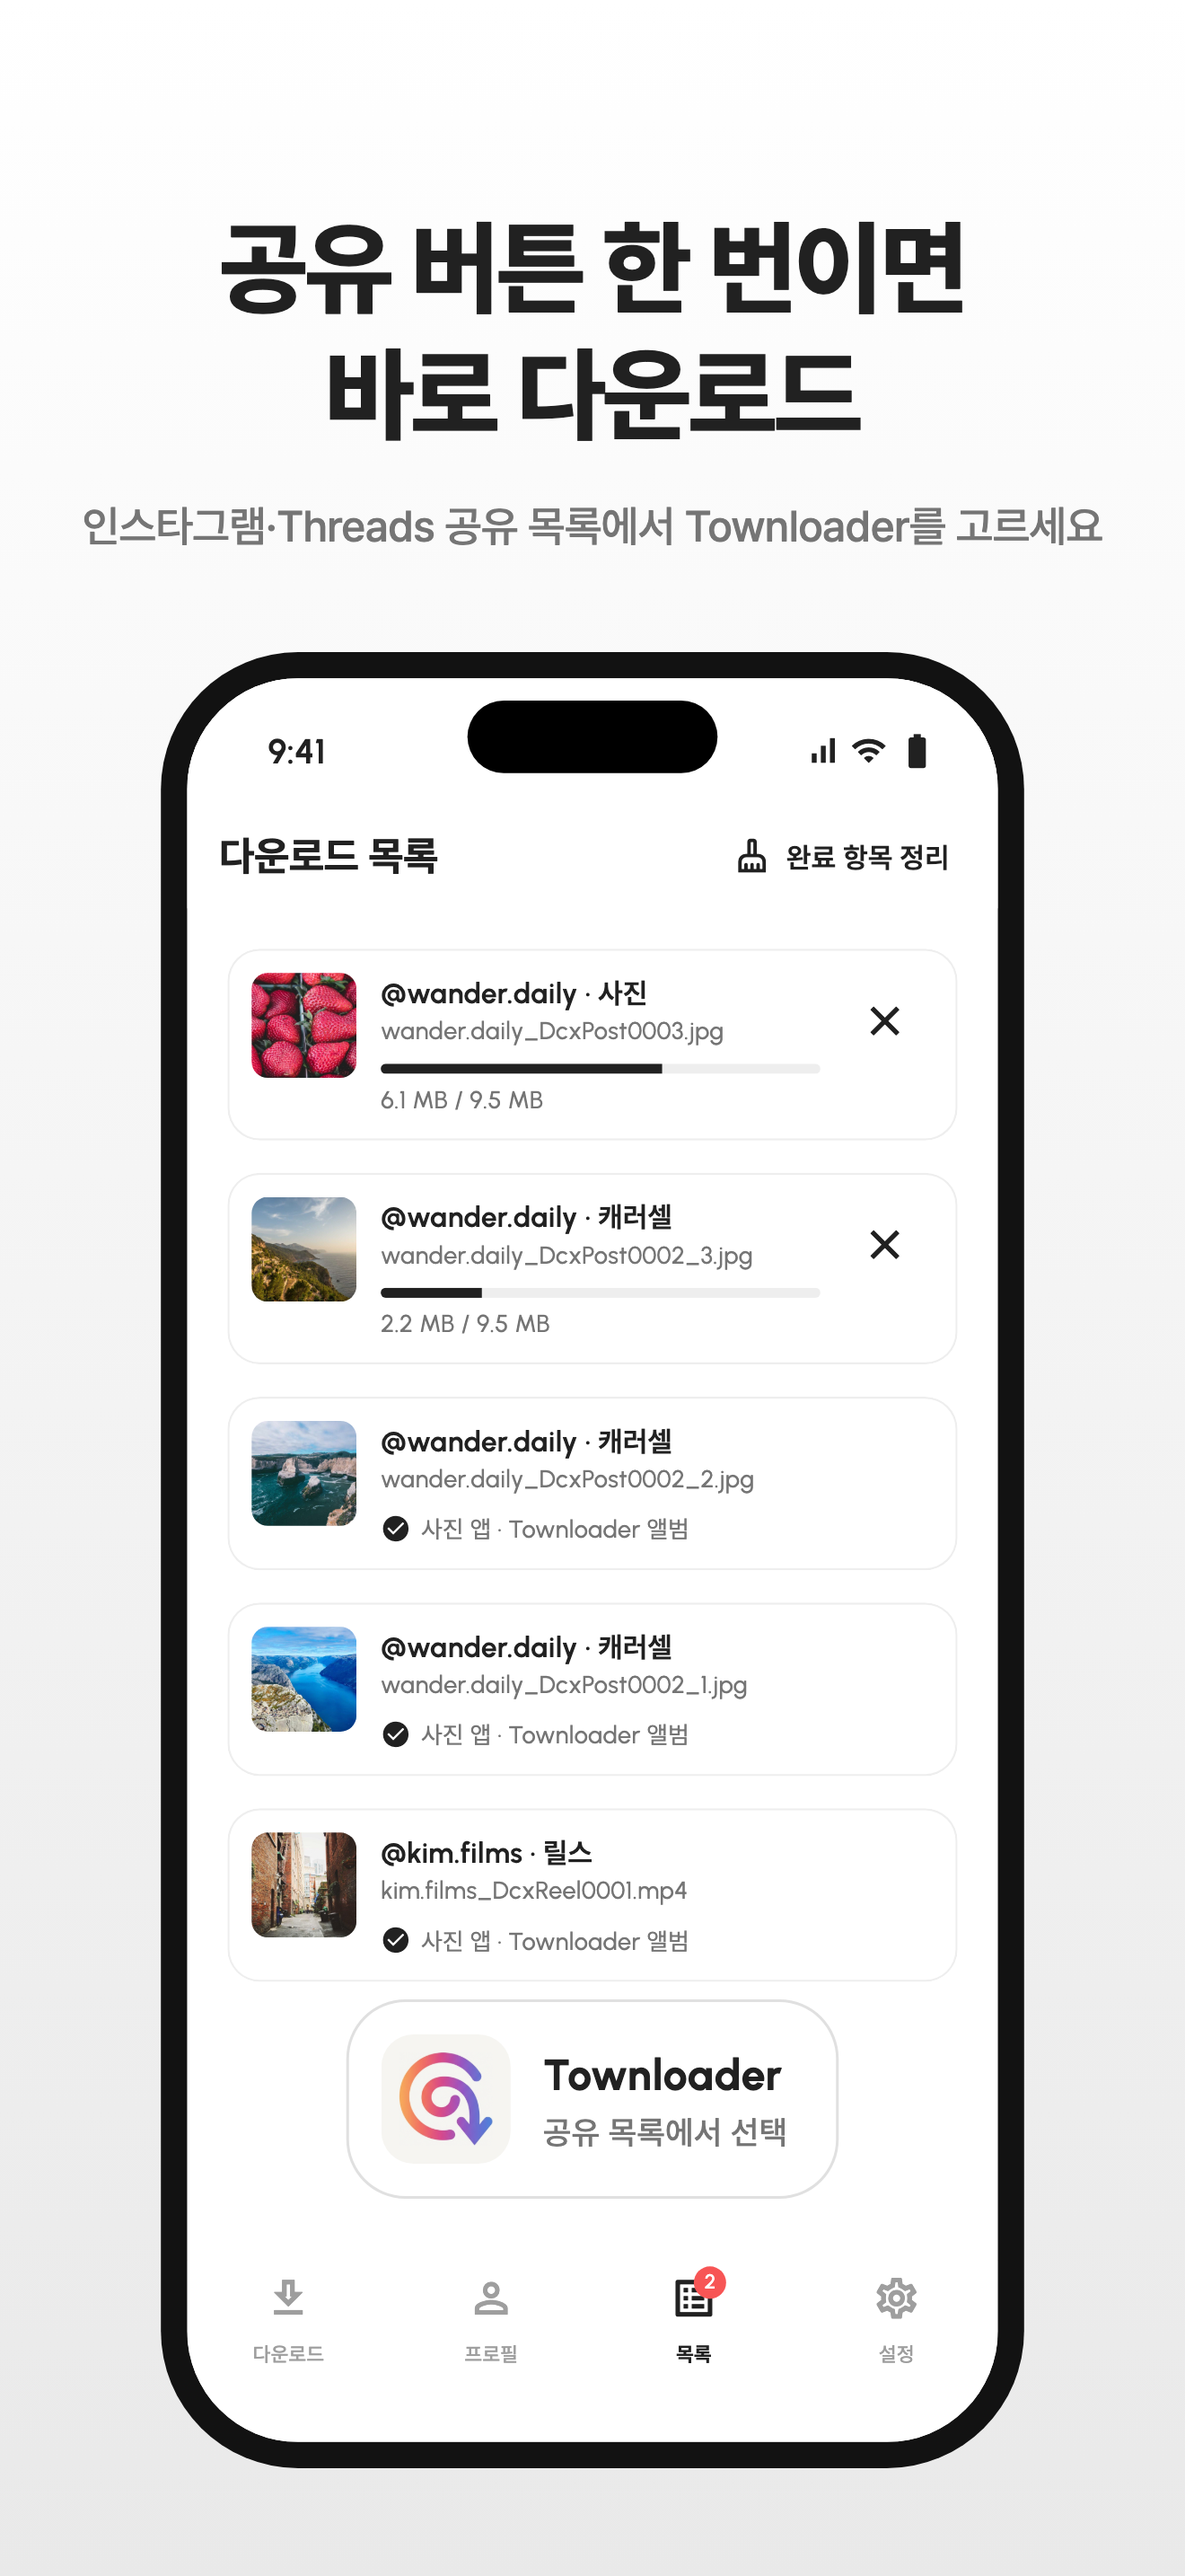
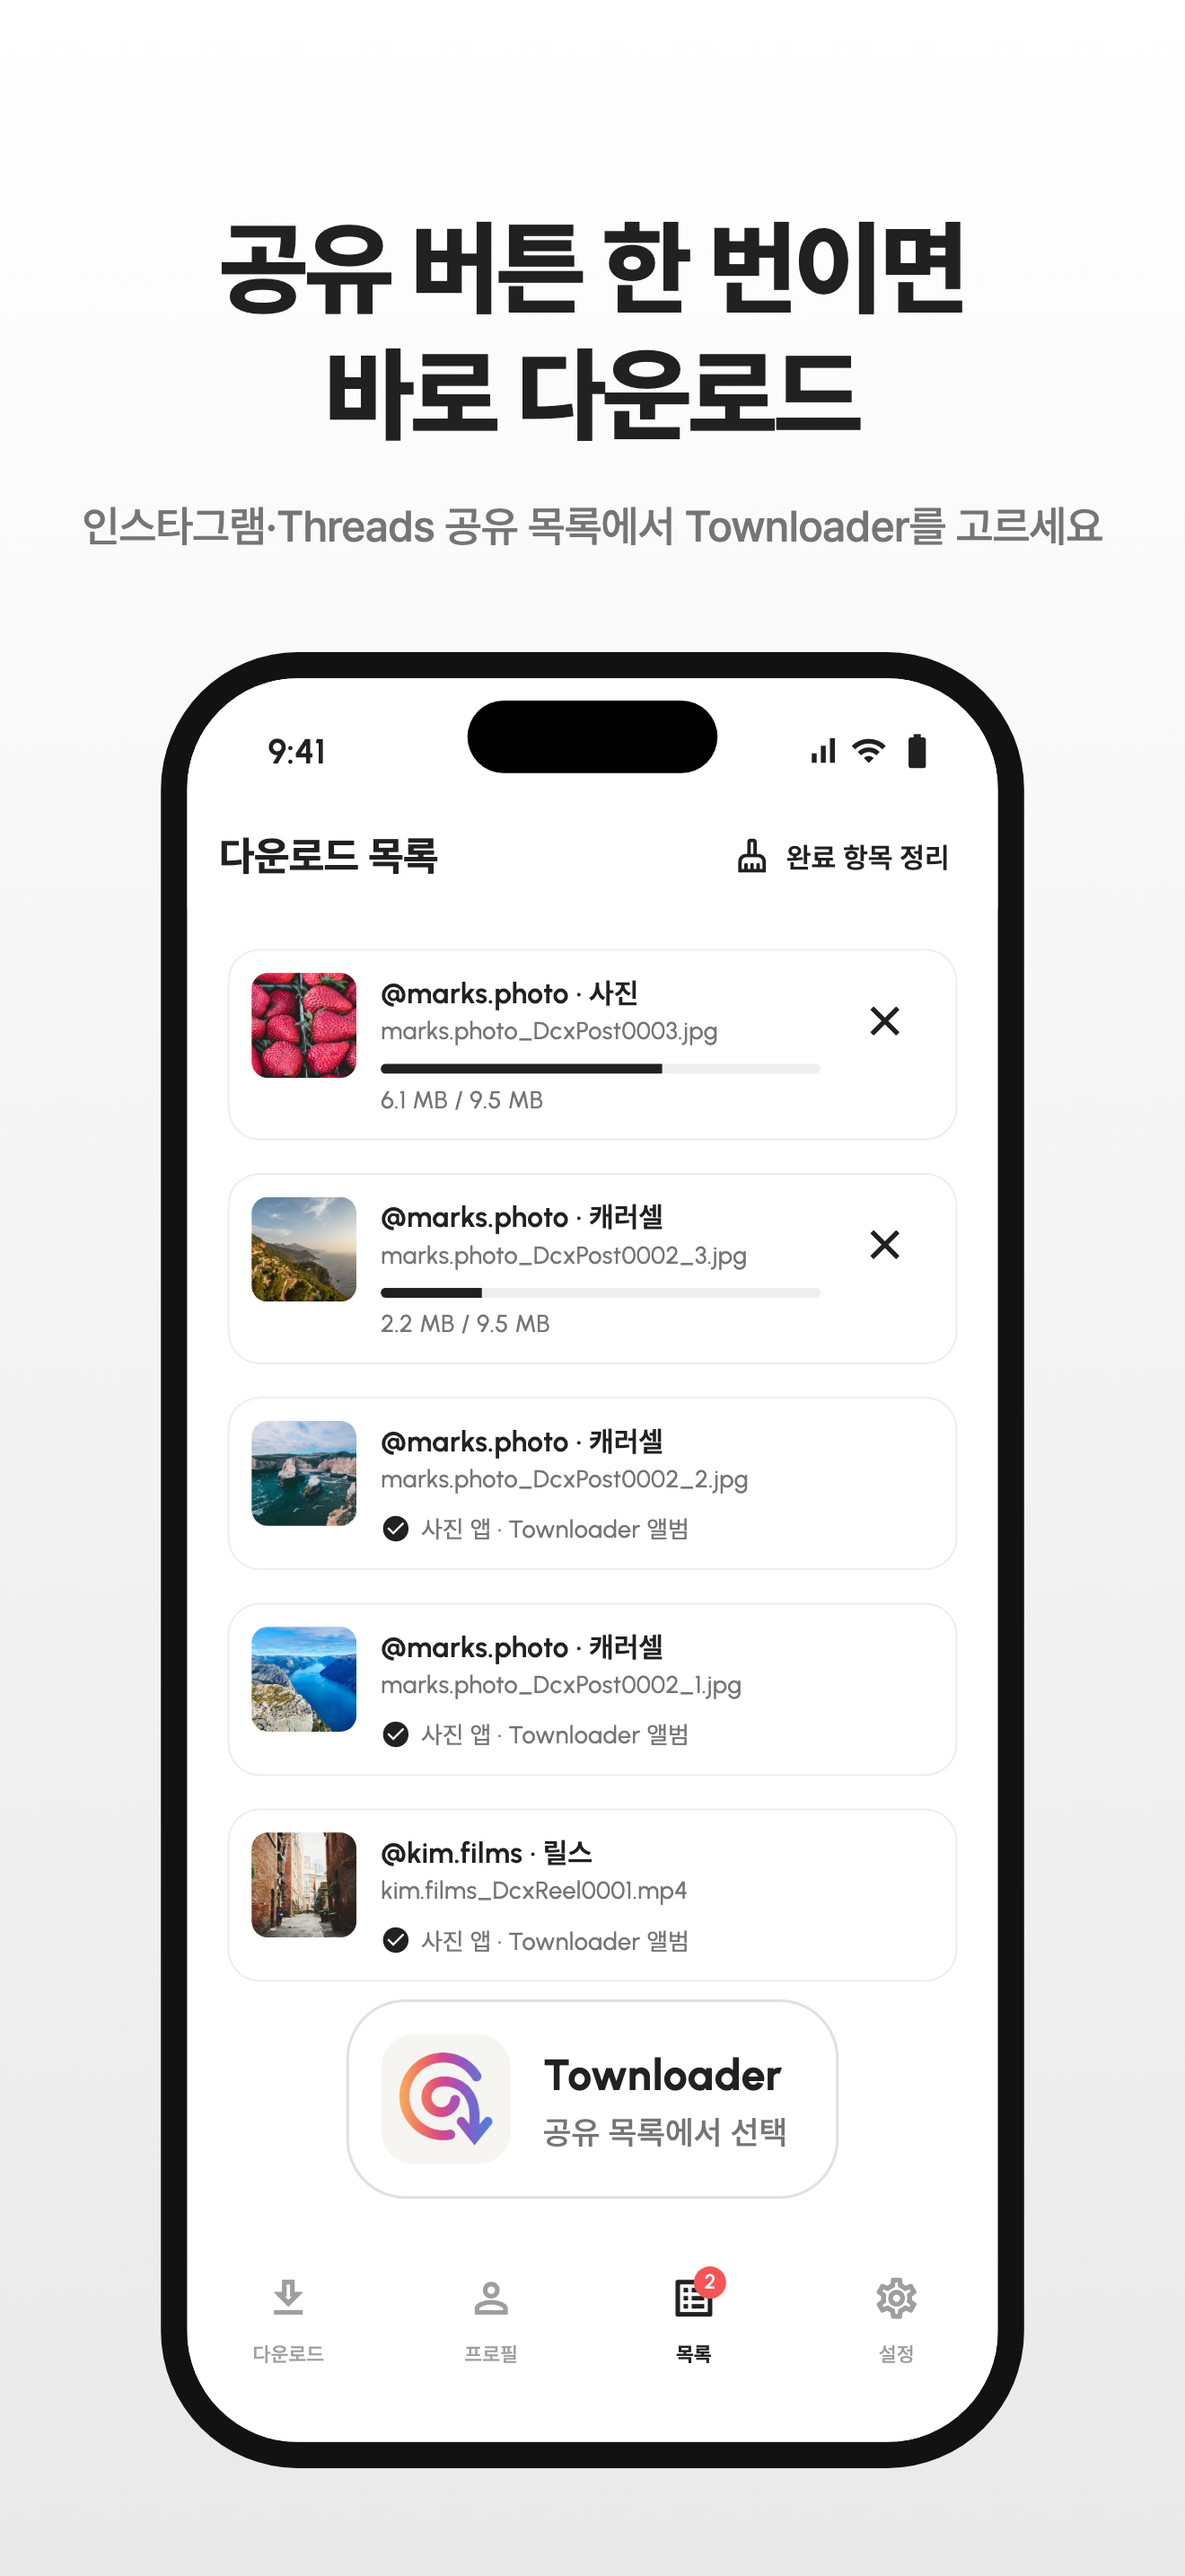
Rename sample account in App Store screenshots to @marks.photo
Claude-Session: https://claude.ai/code/session_01FA7pPUkzbT9RCRNodFPSXE

diff --git a/test/store/store_screenshots_test.dart b/test/store/store_screenshots_test.dart
@@ -545,8 +545,8 @@ class _MemoryStore extends SettingsStore {
 
 final _user = IgUser(
   pk: '4821001',
-  username: 'wander.daily',
-  fullName: 'Wander Daily',
+  username: 'marks.photo',
+  fullName: "Mark's Photo",
   profilePicUrl: _img('avatar'),
   isVerified: true,
   mediaCount: 1284,
